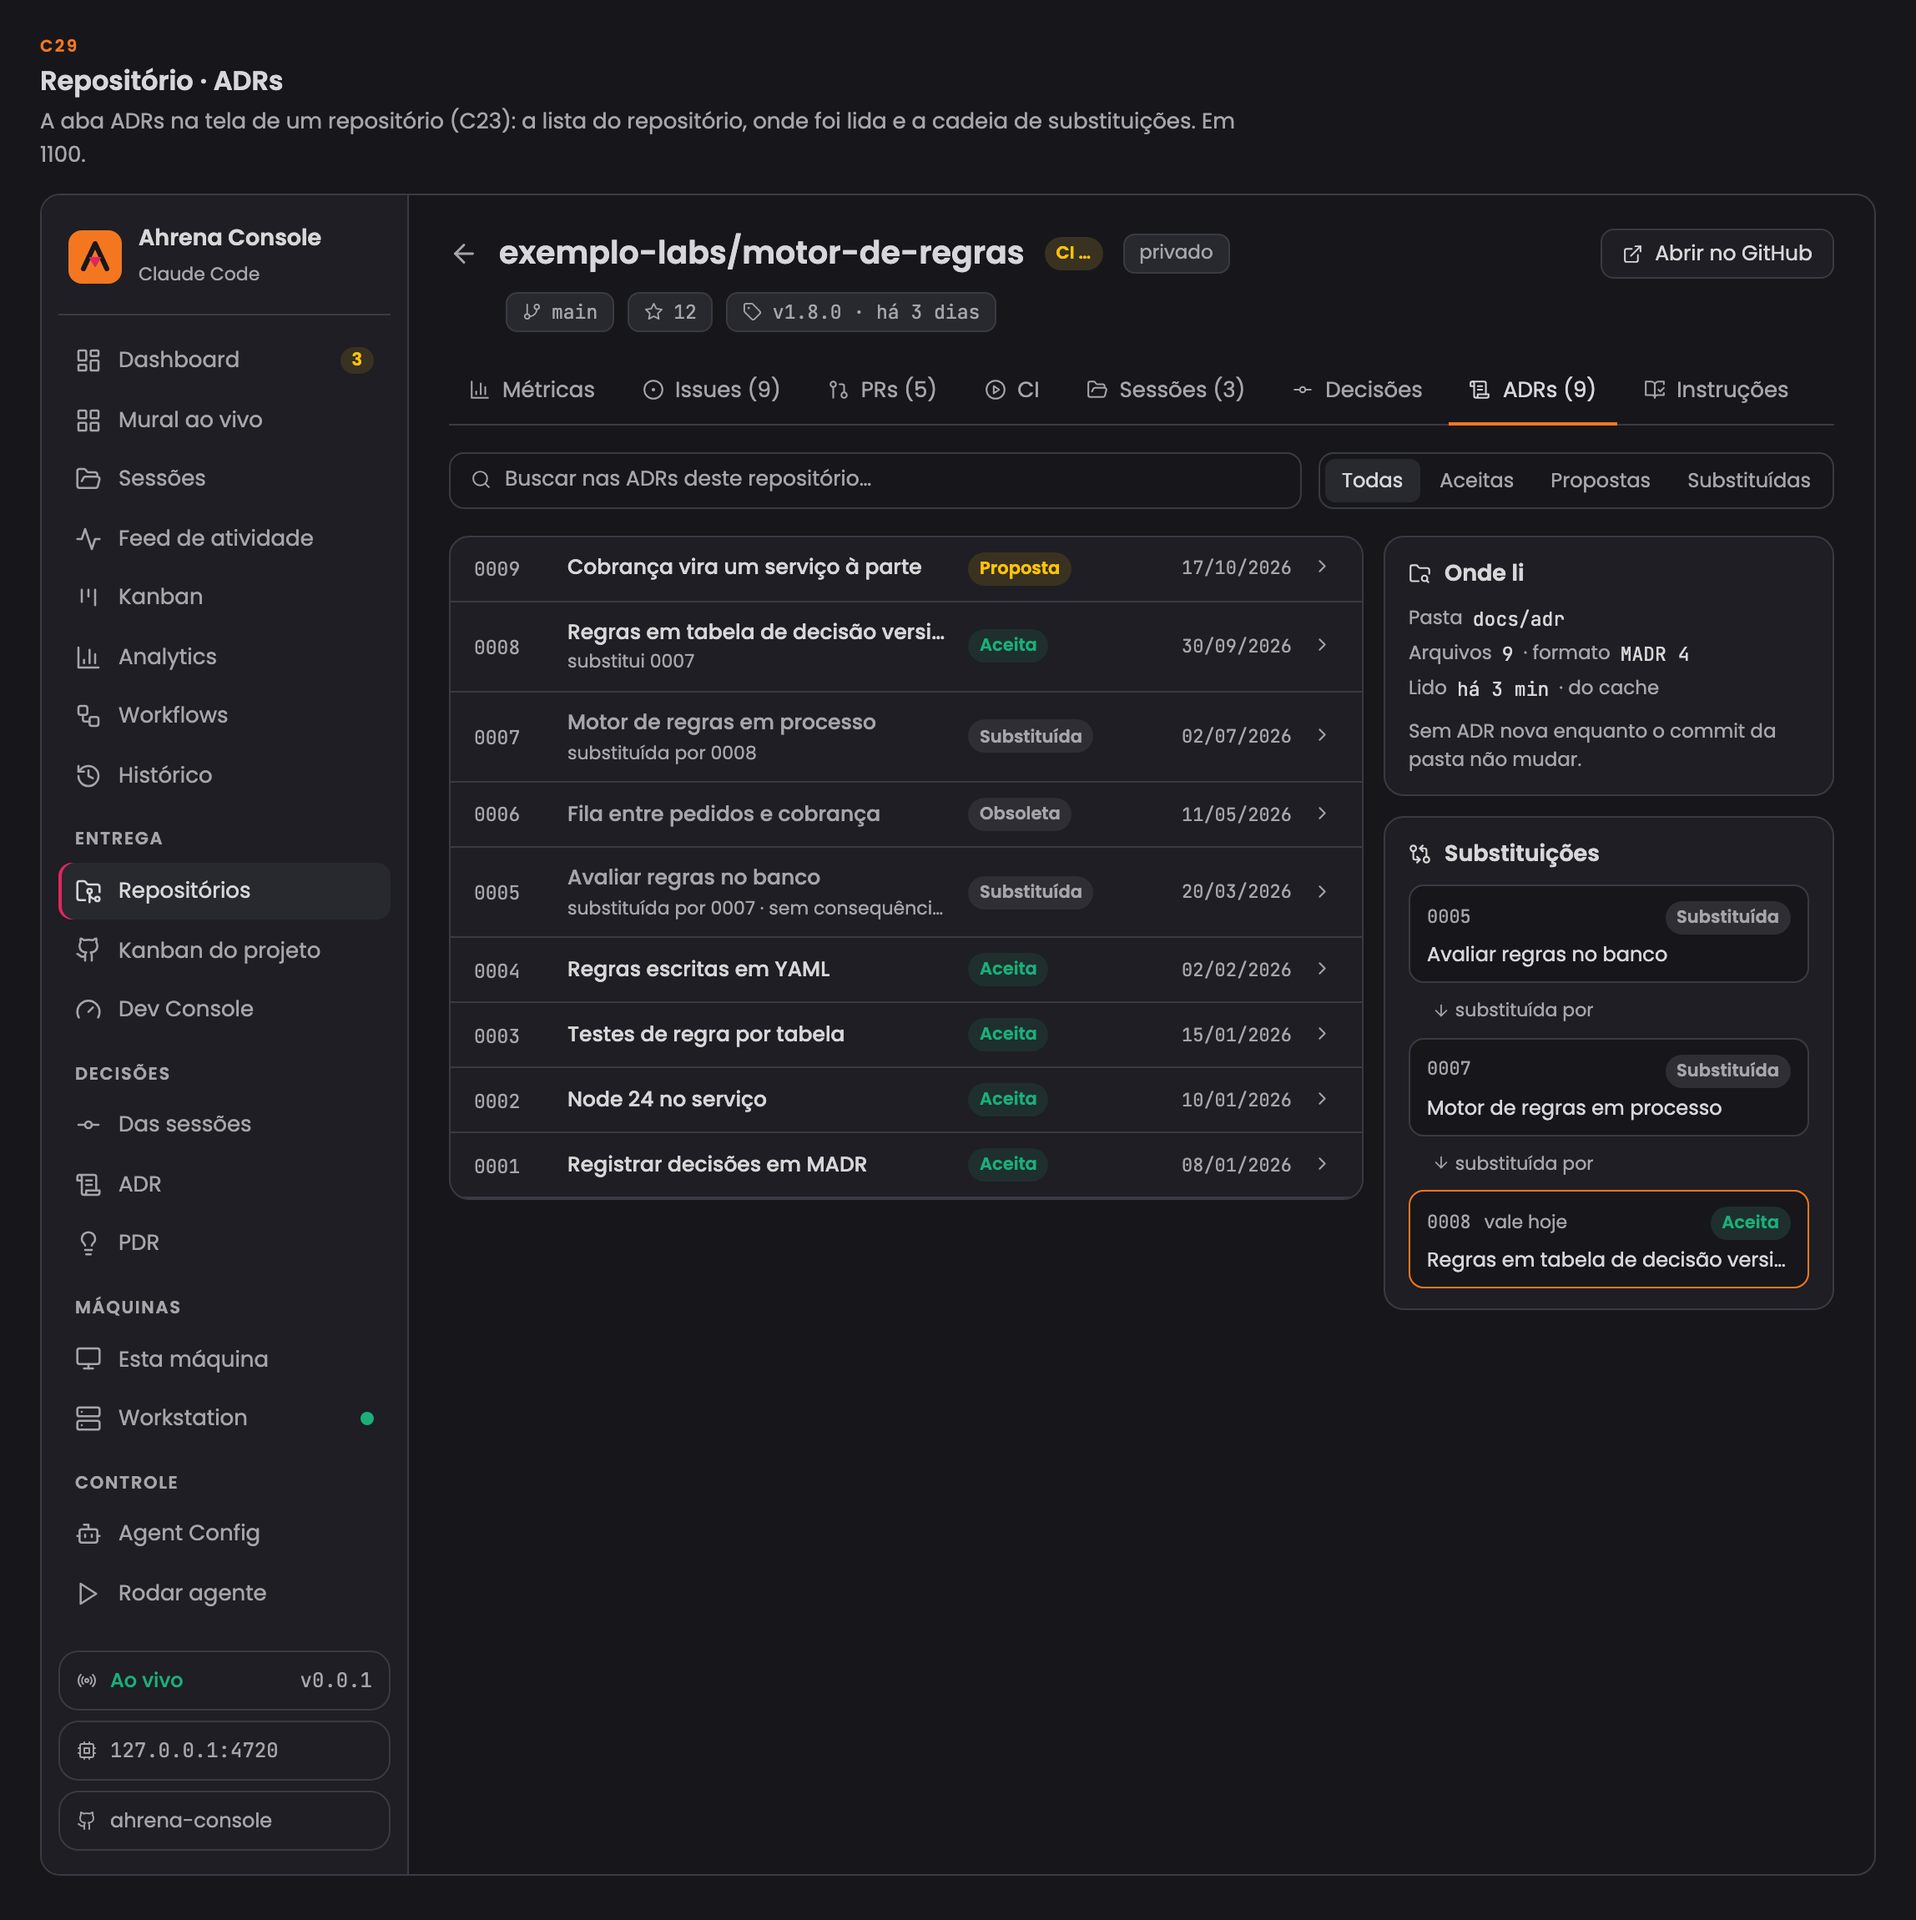
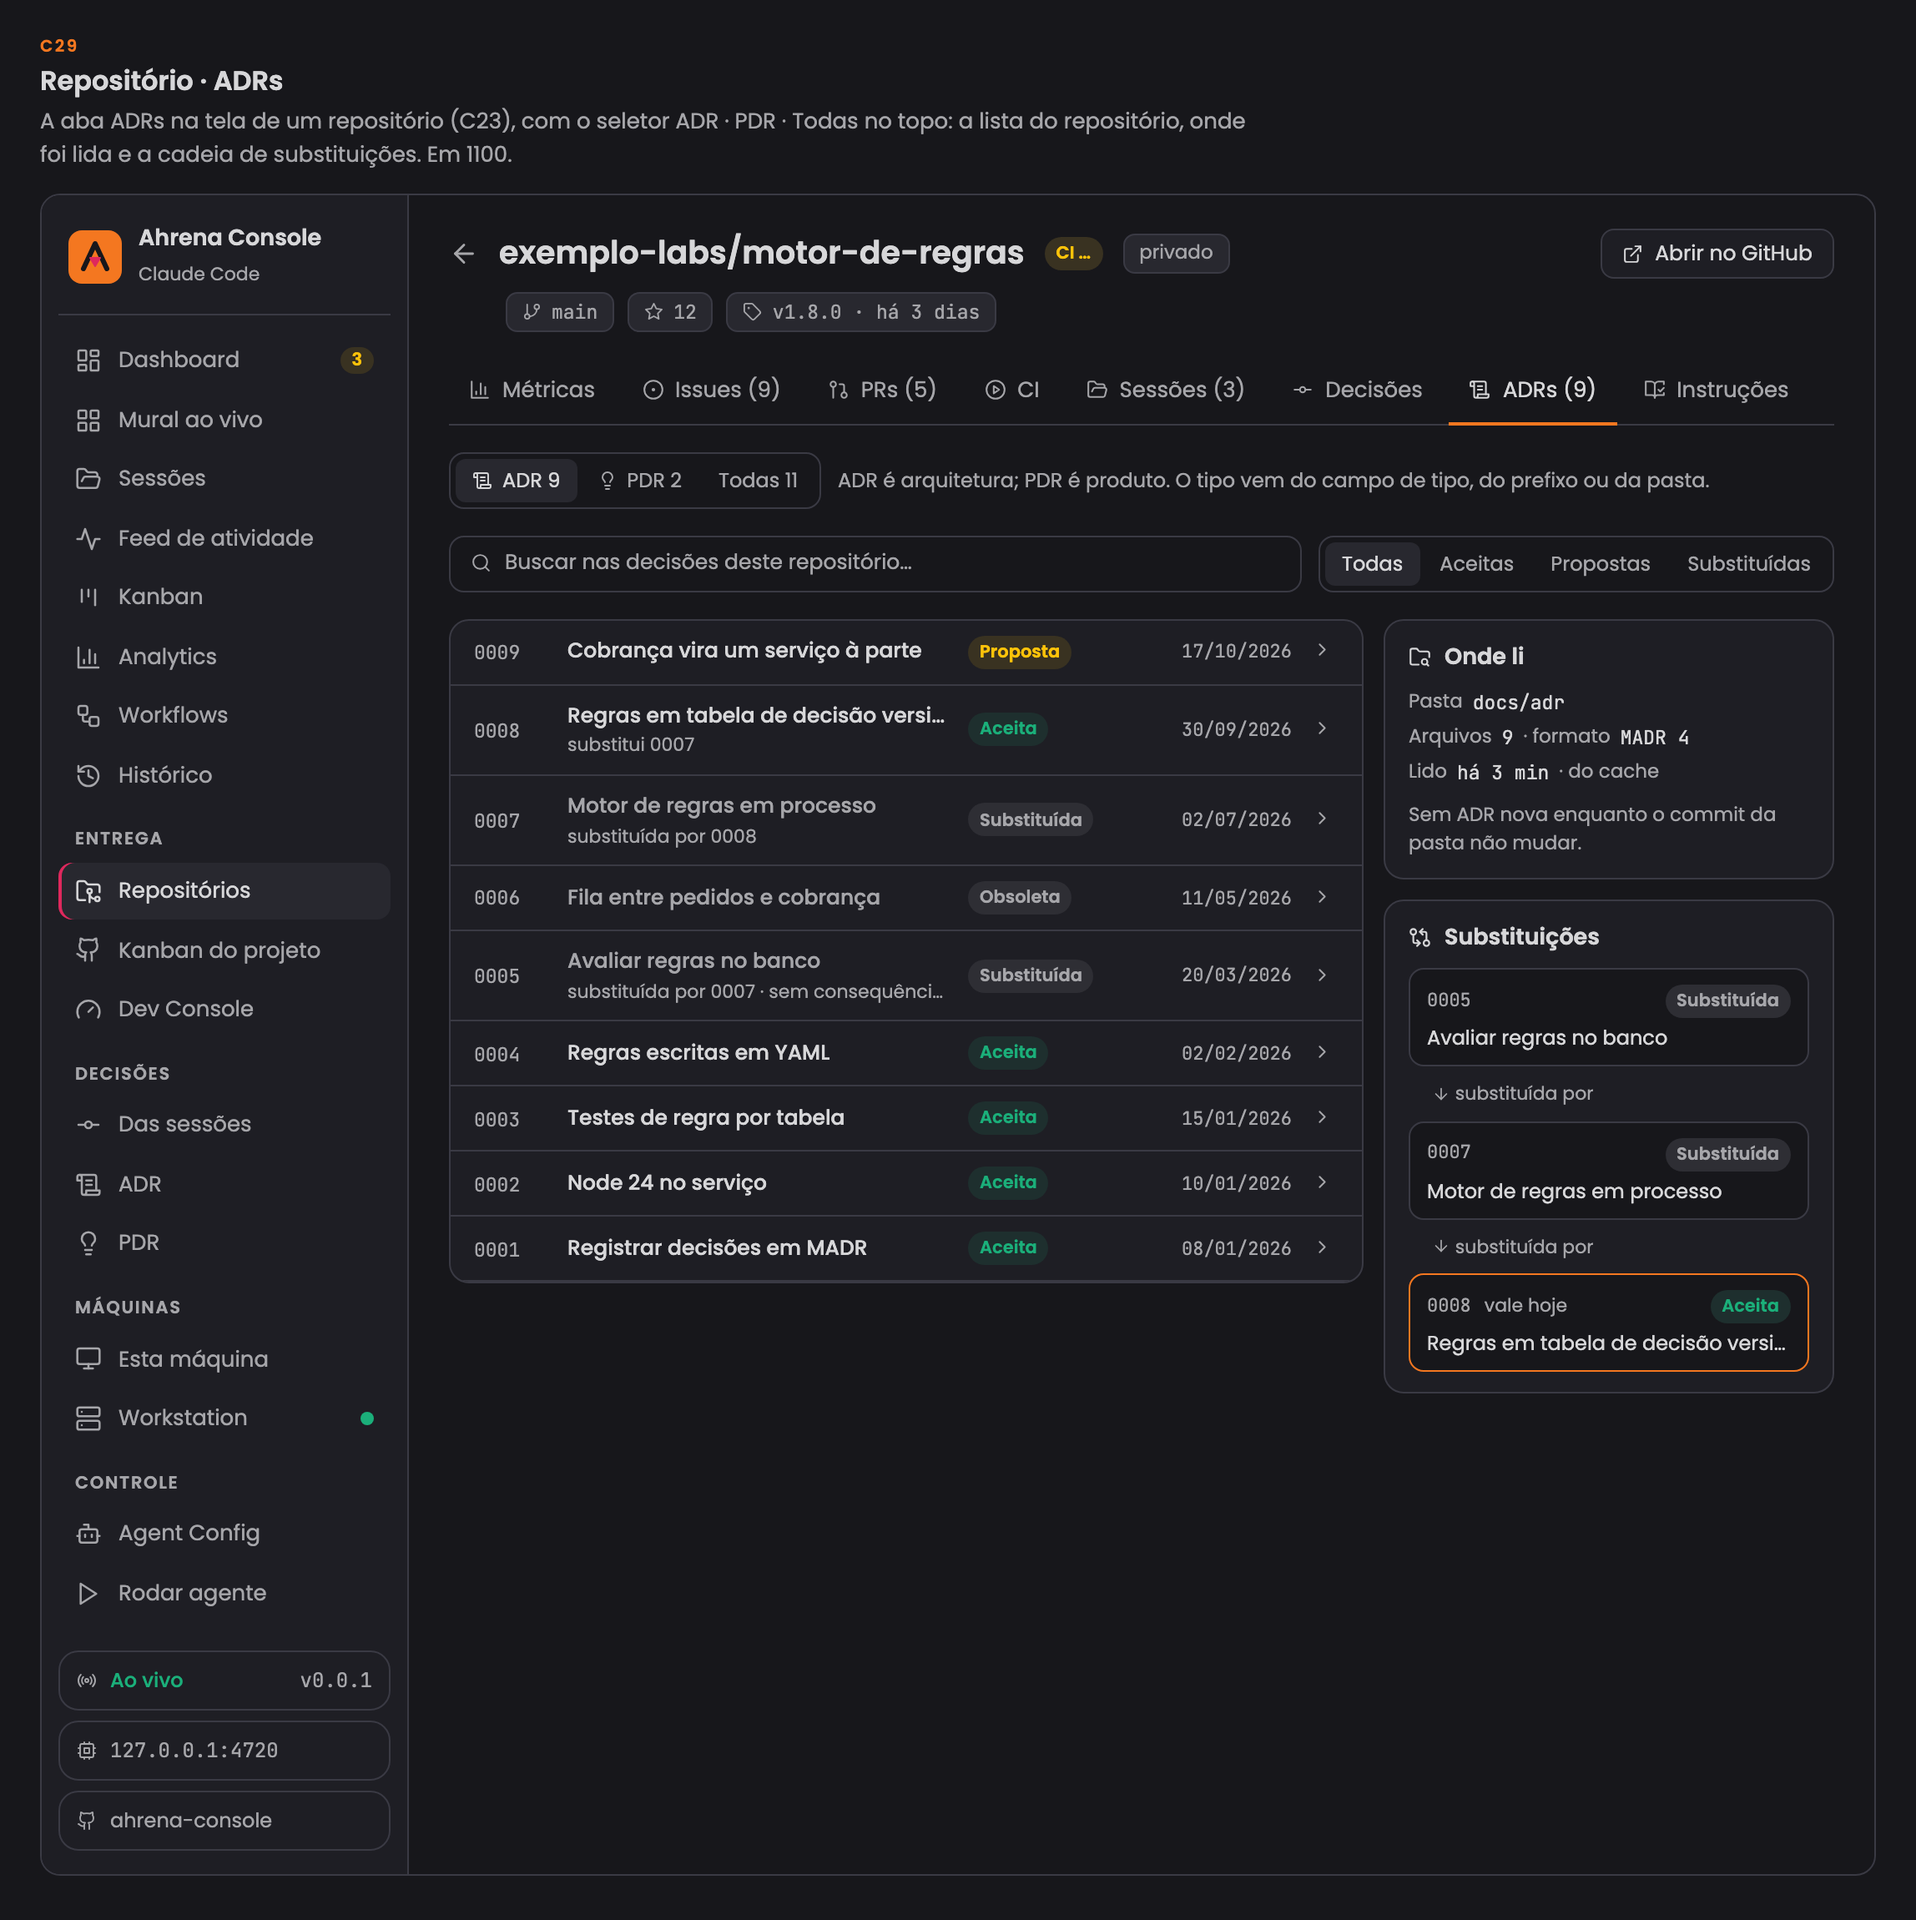
C29: seletor ADR · PDR · Todas no topo da aba ADRs do repositório (#174)

diff --git a/docs/wireframes/index.html b/docs/wireframes/index.html
@@ -1361,7 +1361,8 @@ const telaPdrs = larga => telaRegistros(larga, {
 function telaRepoAdrs() {
   const l = [...ADRS[0][3], ['0004', 'Regras escritas em YAML', 'accepted', '02/02/2026', '', ''], ['0003', 'Testes de regra por tabela', 'accepted', '15/01/2026', '', ''], ['0002', 'Node 24 no serviço', 'accepted', '10/01/2026', '', ''], ['0001', 'Registrar decisões em MADR', 'accepted', '08/01/2026', '', '']]
   return `${repoCab('adrs')}
-  <div style="display:flex;gap:10px;align-items:center"><span class="campo" style="flex:1">${ic('search')}Buscar nas ADRs deste repositório…</span><div class="seg"><span class="on">Todas</span><span>Aceitas</span><span>Propostas</span><span>Substituídas</span></div></div>
+  <div style="display:flex;gap:10px;align-items:center"><div class="seg"><span class="on">${ic('scroll-text')}ADR 9</span><span>${ic('lightbulb')}PDR 2</span><span>Todas 11</span></div><span class="c-muted" style="font-size:12px">ADR é arquitetura; PDR é produto. O tipo vem do campo de tipo, do prefixo ou da pasta.</span></div>
+  <div style="display:flex;gap:10px;align-items:center"><span class="campo" style="flex:1">${ic('search')}Buscar nas decisões deste repositório…</span><div class="seg"><span class="on">Todas</span><span>Aceitas</span><span>Propostas</span><span>Substituídas</span></div></div>
   <div style="display:grid;grid-template-columns:minmax(0,1fr) 270px;gap:12px;align-items:start">
     <div class="cartao" style="overflow:hidden">${l.map(a => adrLinha(a, false)).join('')}</div>
     <div style="display:flex;flex-direction:column;gap:12px">
@@ -2285,7 +2286,7 @@ const TELAS = [
     n: N(['Do Dev Console antigo: o seletor de contexto, a aba Fila de merge com todos os contextos, o placar de 5 números, "Depende de você", a fila na ordem de merge com os não prontos fechados, o quadro de 6 colunas com o critério de cada uma, e "mesclados nas últimas 24 h".'], ['Derivado no núcleo, sem sessão de PM gravando estado: "Delegada" é uma sessão aberta no branch da issue sem push, e "Depende de você" vem de /api/atencao e das decisões sugeridas.', '"Bloqueada" é a etiqueta blocked da issue; plano em andamento e a trilha da release ficaram de fora, porque dependiam de anotação.', 'O antigo rolava na horizontal (o quadro tinha 1110 px mínimos); aqui o quadro dobra em 1100.']) },
   { id: 'console-adrs', cod: 'C28', nome: 'ADR · decisões de arquitetura', sub: 'Os registros de decisão (ADRs) de todos os repositórios da conta, por repositório, com busca no texto e filtro por status. Em 1100 (a janela do app) e 1440.', html: () => `<div style="display:flex;flex-direction:column;gap:12px"><div class="rotulo">1100 px</div>${frameAt(1100, 'adrs', telaAdrs(false))}<div class="rotulo">1440 px</div>${frameAt(1440, 'adrs', telaAdrs(true))}</div>`,
     n: N(['A lista agrupada do Histórico e de Decisões (C21), os StatCards e os filtros de Sessões.'], ['O CCAM não lê ADRs. A tela lê as pastas de ADR que a varredura de Repositórios (C22) já conhece, com o cache da decisão 0001.', 'Em 1440 a linha ganha a coluna das ligações e do que falta; em 1100 isso desce para baixo do título.', 'Repositórios sem ADR ficam numa linha só, no fim, com as pastas procuradas.']) },
-  { id: 'console-repo-adrs', cod: 'C29', nome: 'Repositório · ADRs', sub: 'A aba ADRs na tela de um repositório (C23): a lista do repositório, onde foi lida e a cadeia de substituições. Em 1100.', html: () => `<div class="fila">${frameAt(1100, 'repos', telaRepoAdrs())}</div>`,
+  { id: 'console-repo-adrs', cod: 'C29', nome: 'Repositório · ADRs', sub: 'A aba ADRs na tela de um repositório (C23), com o seletor ADR · PDR · Todas no topo: a lista do repositório, onde foi lida e a cadeia de substituições. Em 1100.', html: () => `<div class="fila">${frameAt(1100, 'repos', telaRepoAdrs())}</div>`,
     n: N(['O cabeçalho e as abas do Session Detail, como em C23.'], ['A aba fica ao lado de Decisões: Decisões são as das sessões (C20 e C21); ADRs são os registros que estão no repositório.', 'A cadeia mostra quem substituiu quem, inclusive quando só um dos lados escreveu a ligação.']) },
   { id: 'console-adr', cod: 'C30', nome: 'ADR aberta', sub: 'Uma ADR estruturada: cabeçalho com status e data, as ligações, contexto, decisão com a opção escolhida, alternativas, consequências boas e ruins, e os metadados. Em 1100 e 1440.', html: () => `<div style="display:flex;flex-direction:column;gap:12px"><div class="rotulo">1100 px</div>${frameAt(1100, 'adrs', telaAdr(false))}<div class="rotulo">1440 px</div>${frameAt(1440, 'adrs', telaAdr(true))}</div>`,
     n: N(['O cabeçalho com chips do Session Detail e a coluna lateral de Decisões (C20).'], ['"Markdown" troca para o texto do arquivo, para quando o extrator errar; o padrão é a estruturada.', 'Seções que o extrator não reconhece ficam em "Outras seções do texto", fechadas, e nada do arquivo some.', 'MADR 4 traz decisores, consultados e informados; Nygard e os livres mostram só o que tiverem.']) },
